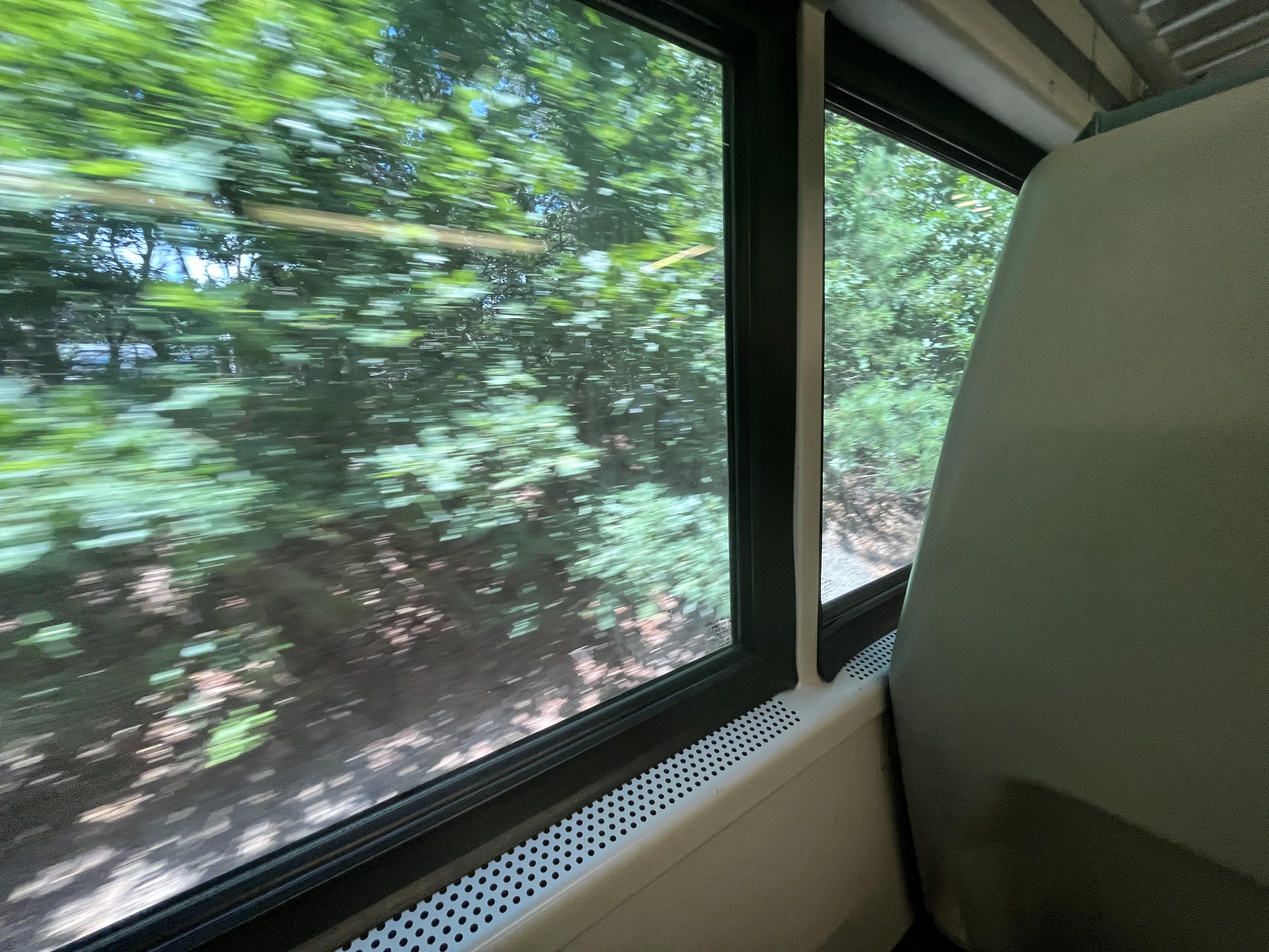
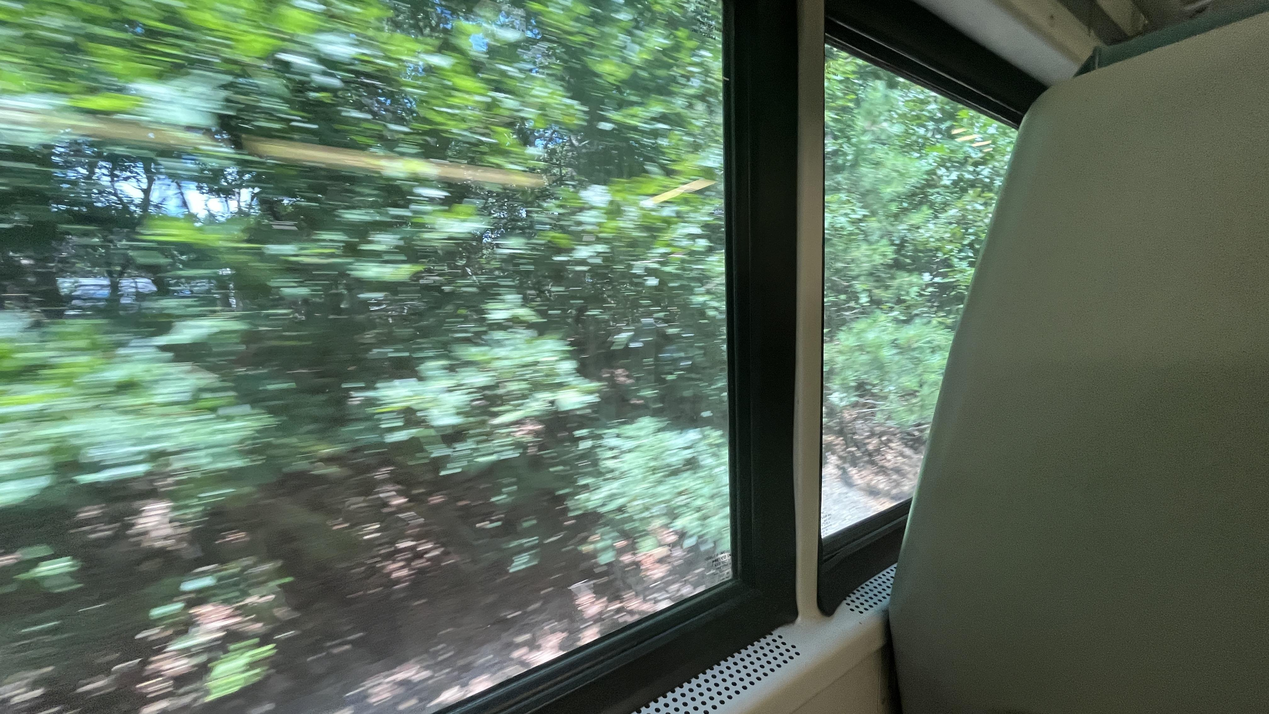
Enforce 16:9 aspect ratio to prevent CLS

diff --git a/_includes/styles/post.css b/_includes/styles/post.css
@@ -20,5 +20,7 @@ section h2 {
 }
 
 article img{
-	width: 100%;
+	max-width: 100%;
+	height: auto;
+	aspect-ratio: 16 / 9;
 }
